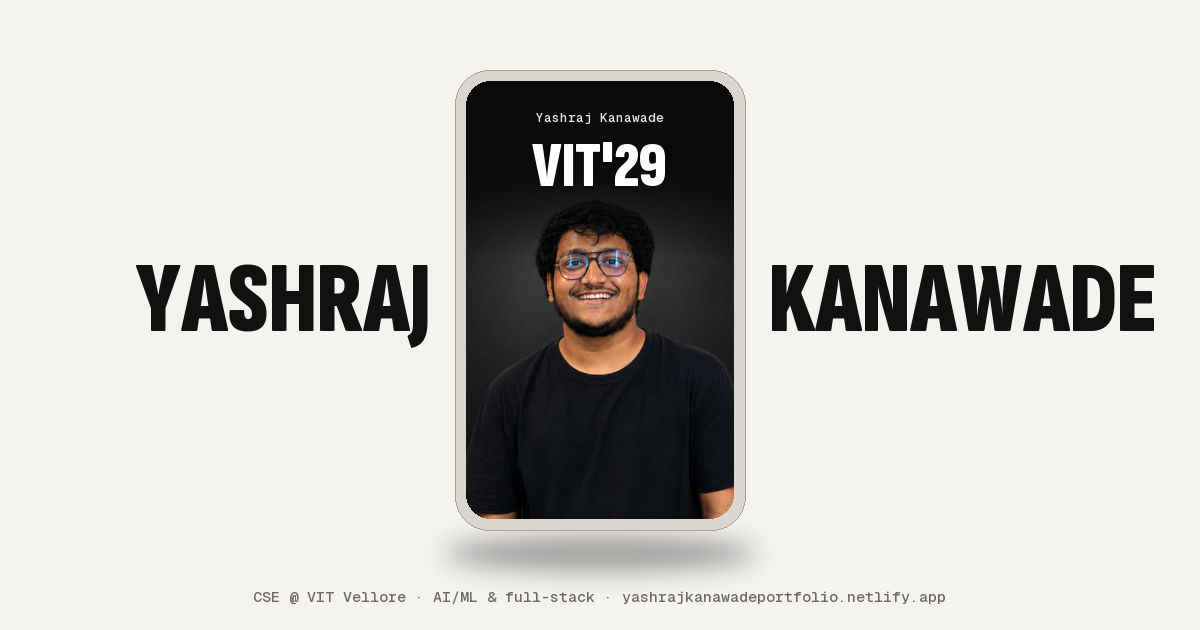
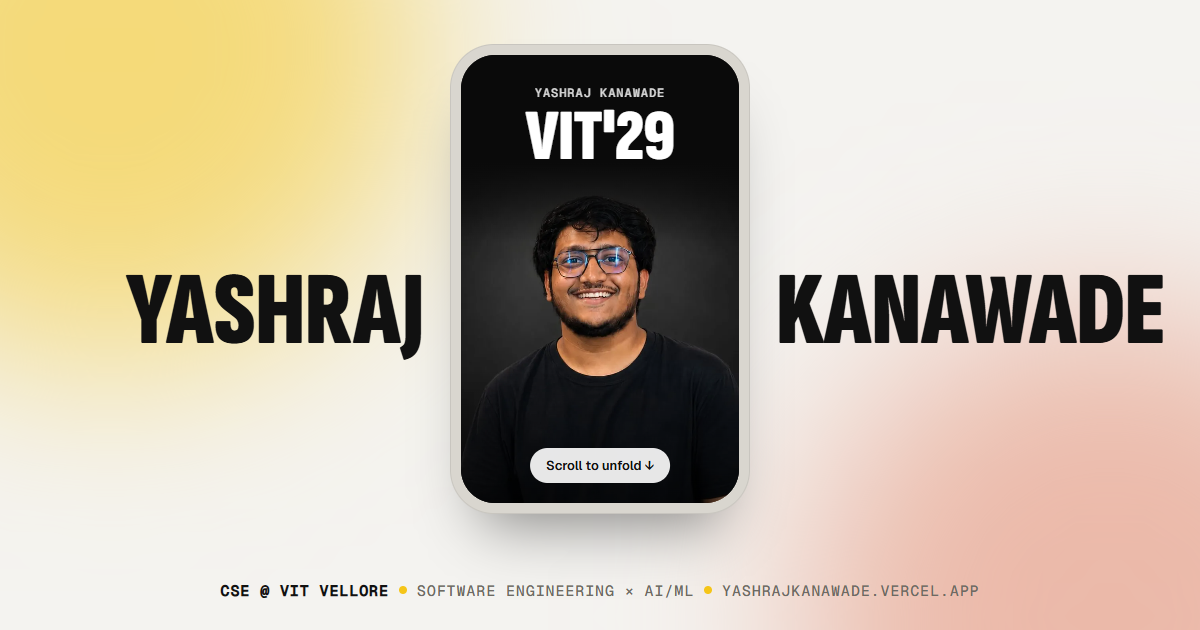
feat: link-preview cards for every page and project, per-route meta tags, sitemap.xml and robots.txt

diff --git a/index.html b/index.html
@@ -9,12 +9,21 @@
     <meta name="theme-color" content="#f4f3f0" />
     <link rel="icon" href="/favicon.svg" type="image/svg+xml" />
     <link rel="preload" as="image" href="/media/photos/portrait-studio.webp" type="image/webp" />
+    <link rel="canonical" href="https://yashrajkanawade.vercel.app/" />
+    <meta property="og:site_name" content="Yashraj Kanawade" />
+    <meta property="og:locale" content="en_IN" />
     <meta property="og:type" content="website" />
     <meta property="og:title" content="Yashraj Kanawade — CSE @ VIT Vellore" />
     <meta property="og:description" content="AI/ML and full-stack projects, inside a phone that unfolds." />
     <meta property="og:url" content="https://yashrajkanawade.vercel.app/" />
-    <meta property="og:image" content="https://yashrajkanawade.vercel.app/og-image.png" />
+    <meta property="og:image" content="https://yashrajkanawade.vercel.app/og/home.png" />
+    <meta property="og:image:width" content="1200" />
+    <meta property="og:image:height" content="630" />
+    <meta property="og:image:alt" content="Yashraj Kanawade — CSE @ VIT Vellore" />
     <meta name="twitter:card" content="summary_large_image" />
+    <meta name="twitter:title" content="Yashraj Kanawade — CSE @ VIT Vellore" />
+    <meta name="twitter:description" content="AI/ML and full-stack projects, inside a phone that unfolds." />
+    <meta name="twitter:image" content="https://yashrajkanawade.vercel.app/og/home.png" />
     <link rel="preconnect" href="https://fonts.googleapis.com" />
     <link rel="preconnect" href="https://fonts.gstatic.com" crossorigin />
     <link
